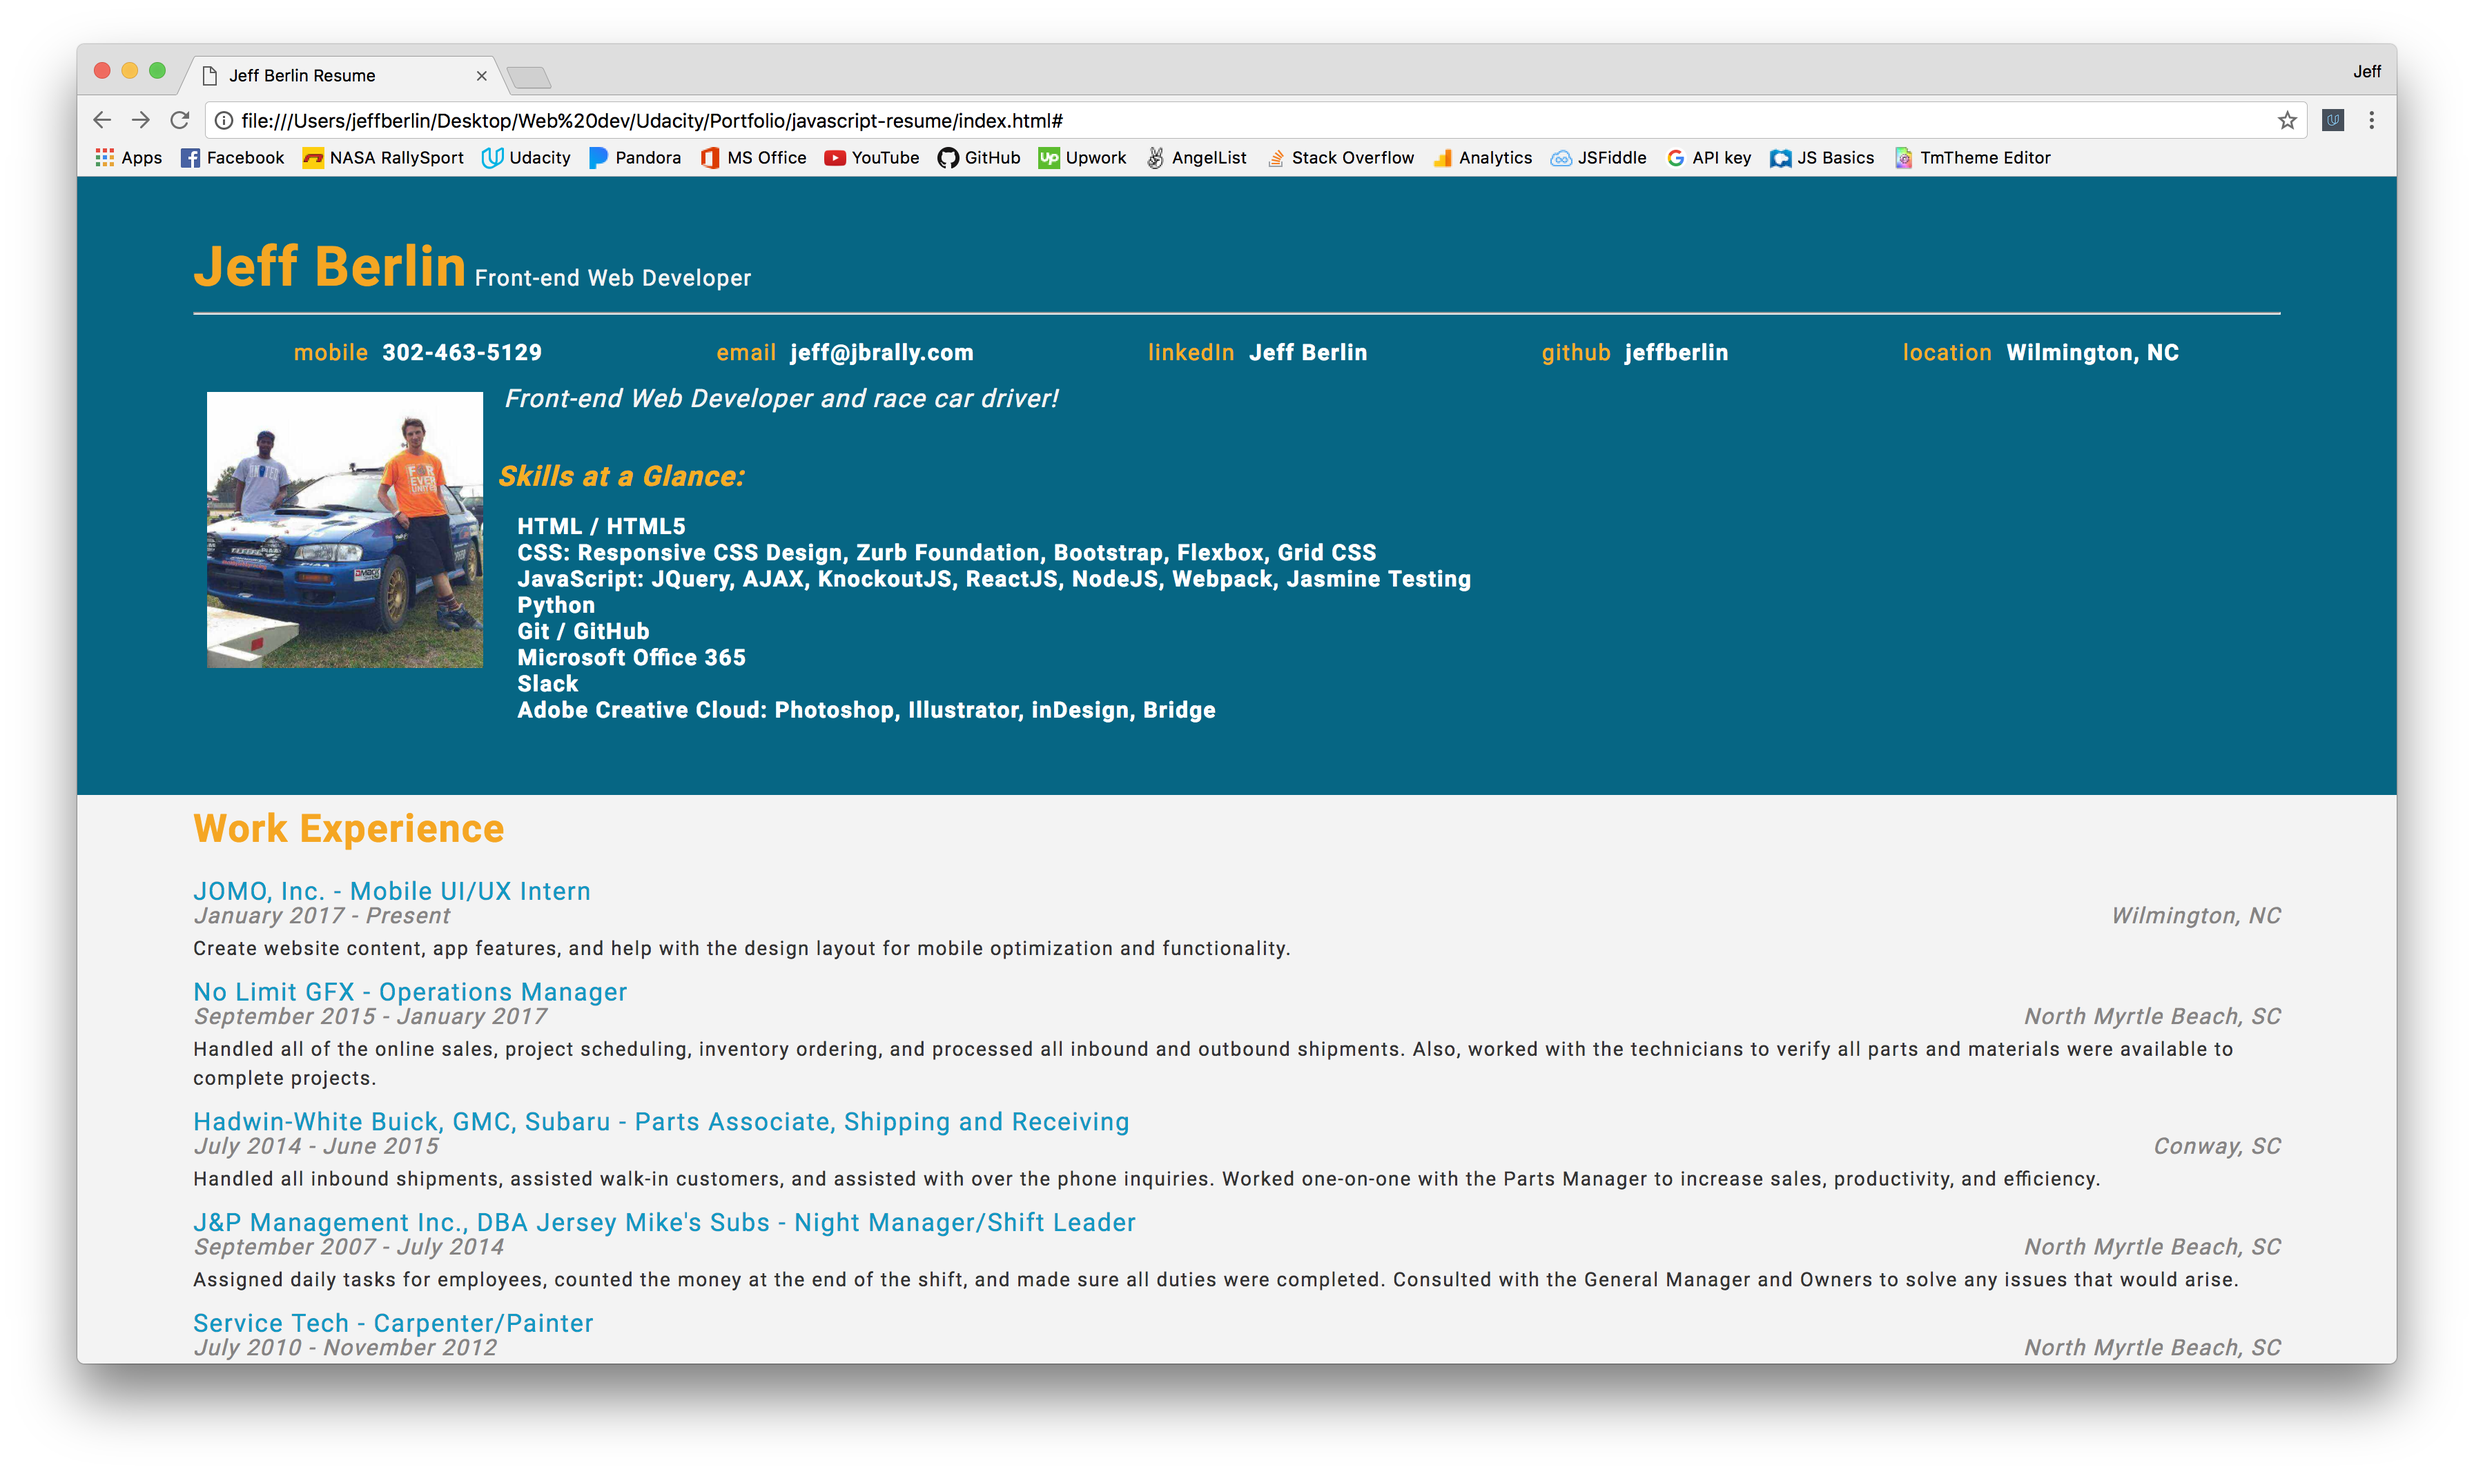
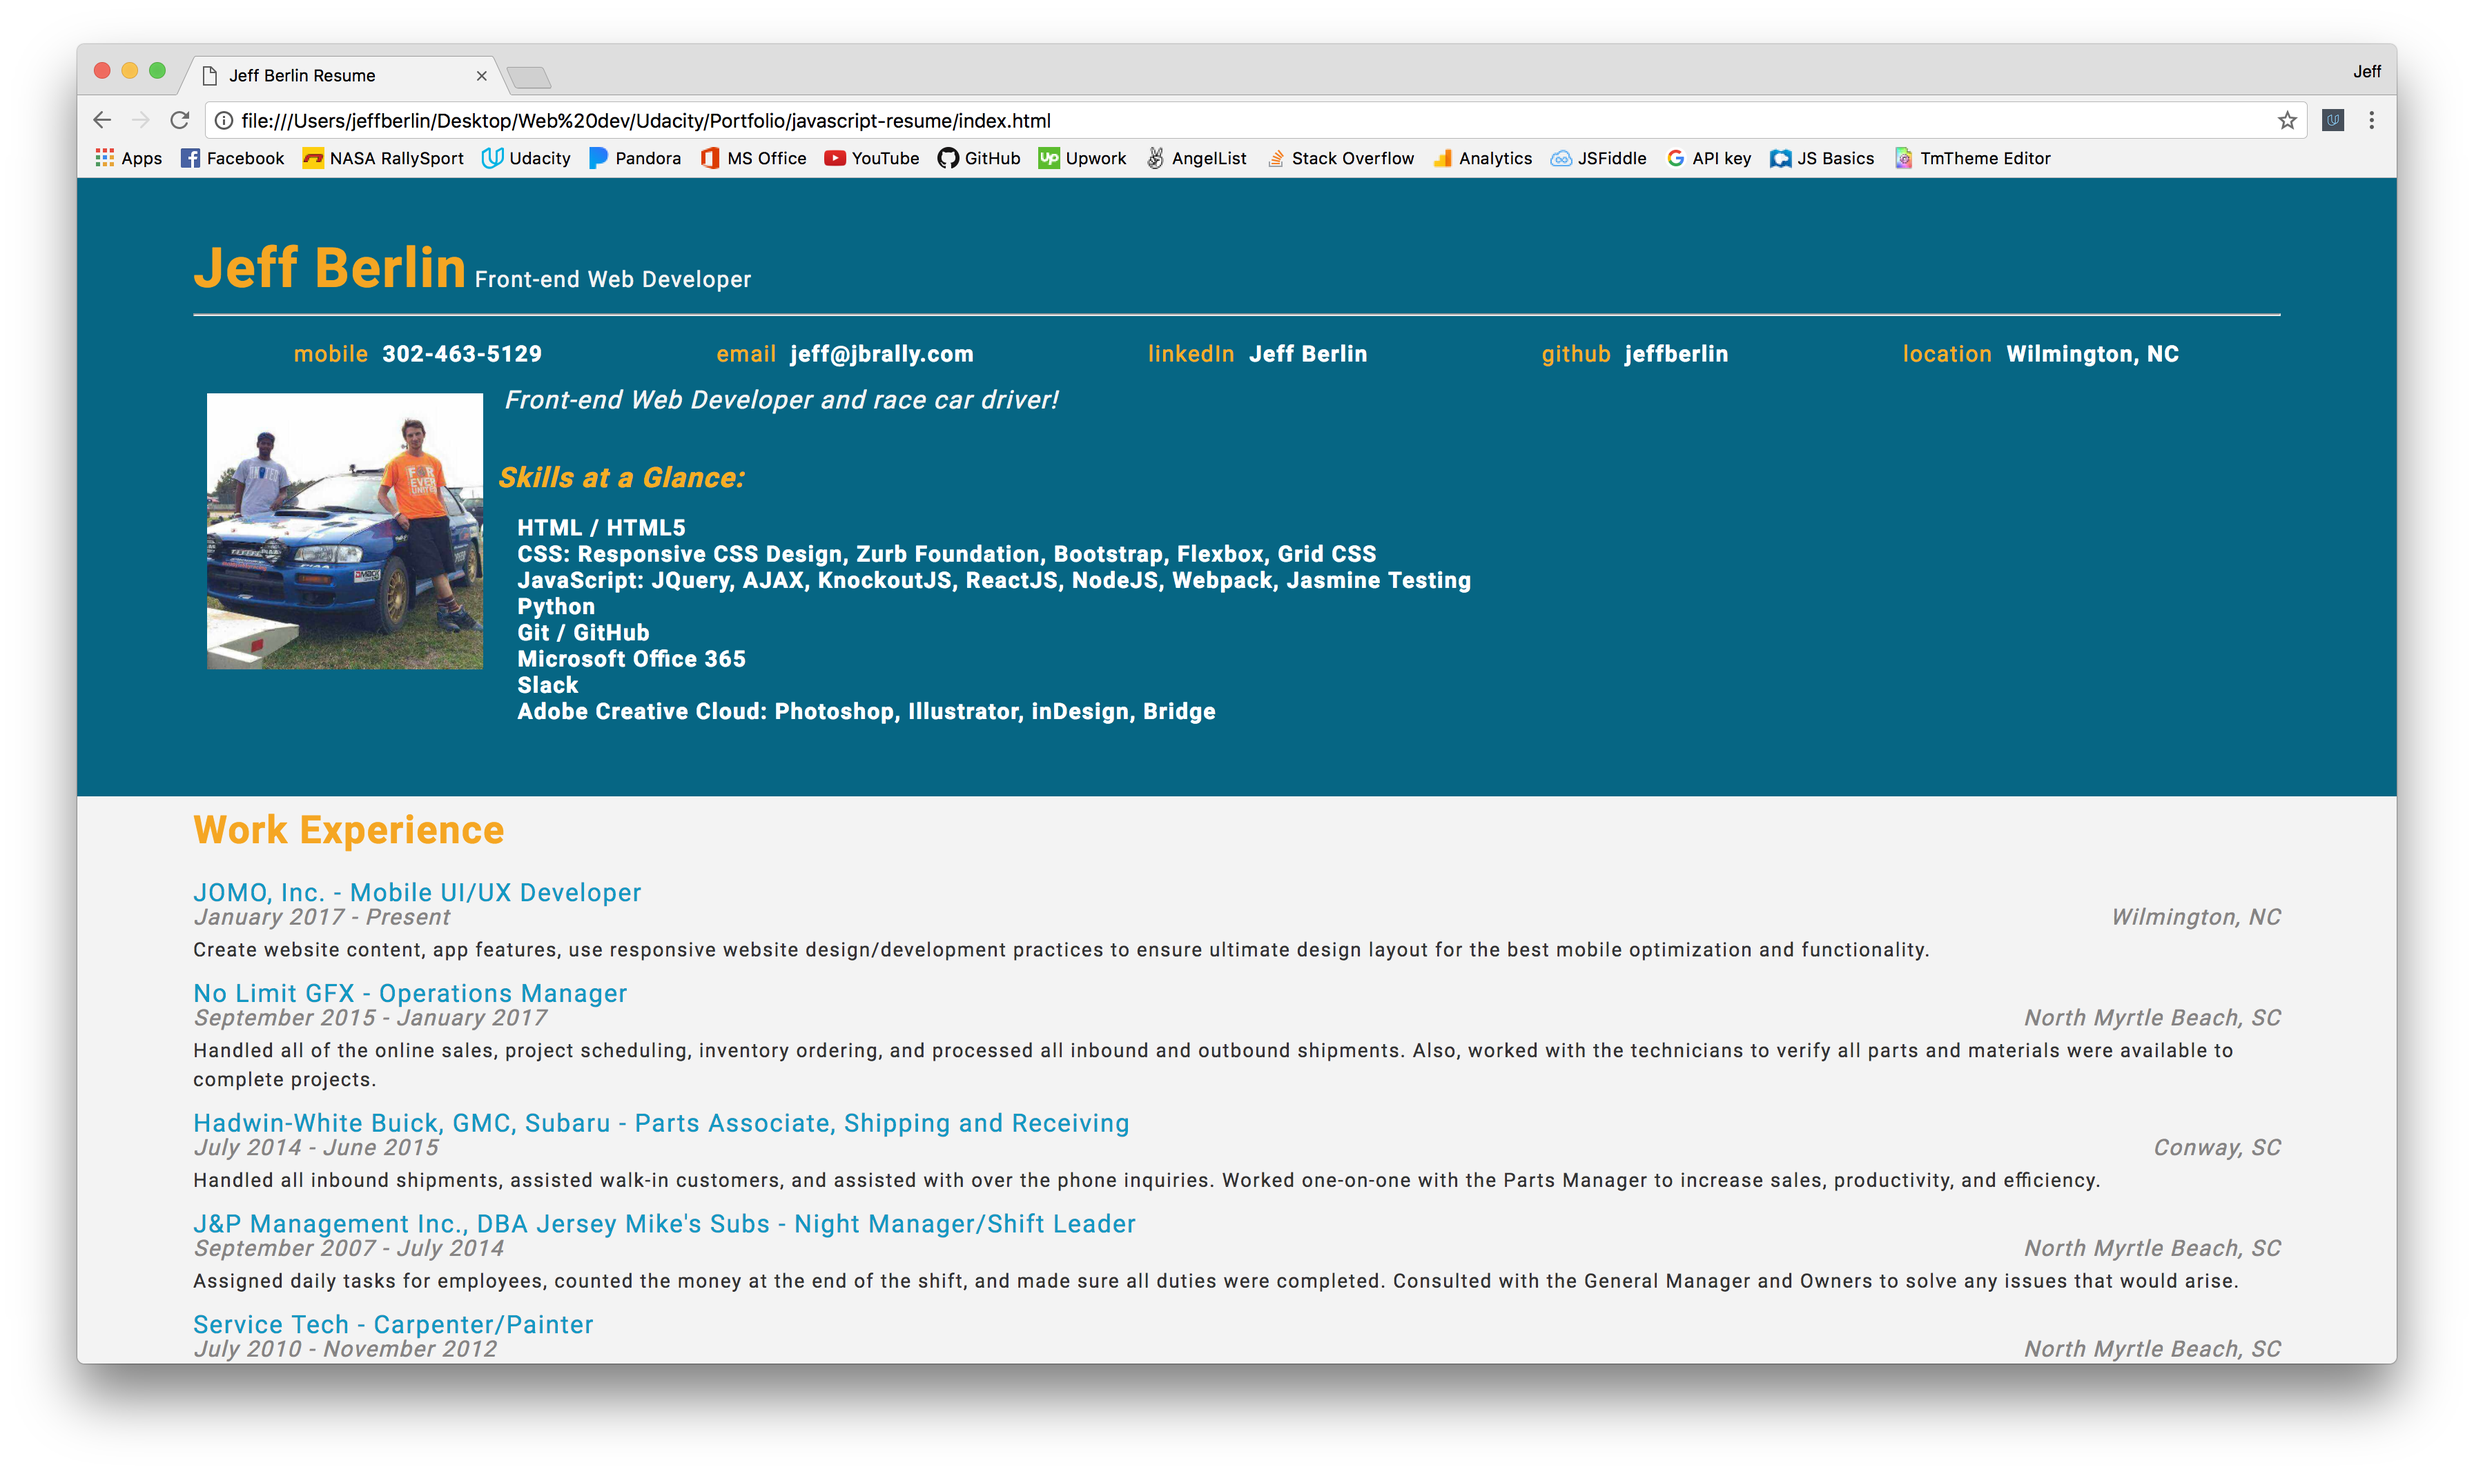
Updated job description and screenshot
Updated job description and screenshot

diff --git a/js/resumeBuilder.js b/js/resumeBuilder.js
@@ -42,10 +42,10 @@ var work = {
   "jobs": [
     {
       "employer": "JOMO, Inc.",
-      "title": "Mobile UI/UX Intern",
+      "title": "Mobile UI/UX Developer",
       "location": "Wilmington, NC",
       "dates": "January 2017 - Present",
-      "description": "Create website content, app features, and help with the design layout for mobile optimization and functionality.",
+      "description": "Create website content, app features, use responsive website design/development practices to ensure ultimate design layout for the best mobile optimization and functionality.",
       "url": "https://www.jomoapp.com"
     },
     {
